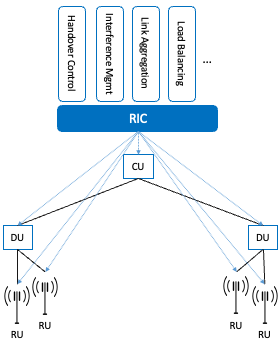
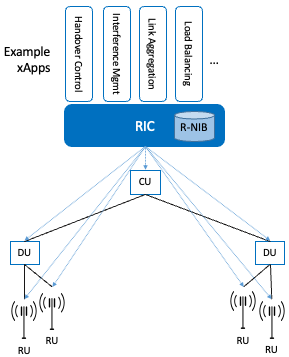
another pass over RAN

Changed region(s): [[0.0, 0.0, 1.0, 1.0], [0.0, 0.1176, 0.1714, 0.2059]]

diff --git a/ran.rst b/ran.rst
@@ -7,23 +7,36 @@ Chapter 4:  Radio Access Network
    extracted from the SDN book).
 
 The high-level description of the RAN in Chapter 2 was mostly silent
-about the RAN’s internal structure. We now focus on those internal
-details, and in doing so, explain how the RAN is being transformed in
-5G. This involves first describing the stages in the packet processing
+about the RAN’s internal structure. We now focus on those details, and
+in doing so, explain how the RAN is being transformed in 5G. This
+involves first describing the stages in the RAN's packet processing
 pipeline, and then showing how these stages are being disaggregated,
 distributed, and implemented.
+
+Note that the deconstruction of the RAN presented in this chapter
+represents a combination of standardized specifications and
+implementation strategies. The former continues to be under the
+purview of the 3GPP, but the latter is primarily influended by a
+second organization: the *Open-RAN Alliance (O-RAN)*. The O-RAN is led
+by network operators (AT&T and China Mobile are the founding members),
+with the goal of catalyzing a software-based implementation of the RAN
+that breaks the vendor lock-in that dominates today’s marketplace.
+Such business forces are certainly a factor in where 5G mobile
+networks are headed, but our goal in this chapter is to identify the
+technical design decisions involved in that evolution.
+
 
 4.1 Packet Processing Pipeline
 ------------------------------
 
 :numref:`Figure %s <fig-pipeline>` shows the packet processing stages
-historically implemented in the base stations, as specified by the
-3GPP standard. Note that the figure depicts the base station as a
-pipeline (running left-to-right for packets sent to the UE) but it is
-equally valid to view it as a protocol stack (as is typically done in
-official 3GPP documents). Also note that (for now) we are agnostic as
-to how these stages are implemented, but since we are ultimately
-heading towards a cloud-based implementation, you can think of each as
+historically bundled in base stations, as specified by the 3GPP
+standard. Note that the figure depicts the base station as a pipeline
+(running left-to-right for packets sent to the UE) but it is equally
+valid to view it as a protocol stack (as is typically done in official
+3GPP documents). Also note that (for now) we are agnostic as to how
+these stages are implemented, but since we are ultimately heading
+towards a cloud-based implementation, you can think of each as
 corresponding to a microservice (if that is helpful).
 
 .. _fig-pipeline:
@@ -87,8 +100,7 @@ historically been "no split," with the entire pipeline shown in
 forward, the 3GPP standard has been extended to allow for multiple
 split-points, with the partition shown in :numref:`Figure %s
 <fig-split-ran>` being actively pursued by the operator-led O-RAN
-(Open RAN) Alliance. It is the split we adopt throughout the rest of
-this book.
+Alliance. It is the split we adopt throughout the rest of this book.
 
 .. _fig-split-ran:
 .. figure:: figures/sdn/Slide2.png 
@@ -102,10 +114,10 @@ This results in a RAN-wide configuration similar to that shown in
 :numref:`Figure %s <fig-ran-hierarchy>`, where a single *Central Unit
 (CU)* running in the cloud serves multiple *Distributed Units (DUs)*,
 each of which in turn serves multiple *Radio Units (RUs)*. Critically,
-the RRC (centralized in the CU) is responsible for only near-real-time
-configuration and control decision making, while the Scheduler that is
-part of the MAC stage is responsible for all real-time scheduling
-decisions.
+the RRC (centralized in the CU) is responsible for making only
+near-real-time configuration and control decisions, while the
+Scheduler that is part of the MAC stage is responsible for all
+real-time scheduling decisions.
 
 .. _fig-ran-hierarchy:
 .. figure:: figures/sdn/Slide3.png 
@@ -125,10 +137,10 @@ geographic area (e.g., a mall, campus, or factory), then a single DU
 would likely service multiple RUs. The use of mmWave in 5G is likely
 to make this later configuration all the more common.
 
-Also note that the split-RAN changes the nature of the Backhaul Network,
-which in 4G connected the base stations (eNBs) back to the Mobile Core.
-With the split-RAN there are multiple connections, which are officially
-labeled as follows.
+Also note that the split-RAN changes the nature of the Backhaul
+Network, which originally connected the base stations back to the
+Mobile Core.  With the split-RAN there are multiple connections, which
+are officially labeled as follows.
 
 -  RU-DU connectivity is called the Fronthaul
 -  DU-CU connectivity is called the Midhaul
@@ -193,19 +205,27 @@ scheduler running in the DU.
     RRC disaggregated into a Mobile Core facing control plane
     component (a proxy) and a Near-Real-Time Controller.
 
-Although not shown in :numref:`Figure %s <fig-rrc-split>`, keep in mind
-(from :numref:`Figure %s <fig-split-ran>`) that all constituent parts of
-the RRC, plus the PDCP, form the CU.
+Although not shown in :numref:`Figure %s <fig-rrc-split>`, keep in
+mind (from :numref:`Figure %s <fig-split-ran>`) that the RRC the PDCP,
+form the CU. Trying to reconcile these two figures is a little bit
+messy, but to a first approximation, the PDCP corresponds to the CU-U
+and RRC-Proxy corresponds to the CU-C, with the RIC "lifted out" and
+responsible for overseeing both.  We postpone a diagram depicting this
+relationship until Section 4.5, where we summarize the end-to-end
+result. For now, the important takeaway is that the SDN-inspired
+refactoring of the RAN is free to both move functionality around and
+introduce new module boundaries, as long as the original 3GPP-defined
+interfaces are preserved.
 
 Completing the picture, :numref:`Figure %s <fig-ran-controller>` shows
 the Near-RT RIC implemented as an SDN Controller hosting a set of SDN
 control apps. The RIC maintains a *RAN Network Information Base
-(R-NIB)*–a common set of information that can be consumed by numerous
+(R-NIB)*—a common set of information that can be consumed by numerous
 control apps. The R-NIB includes time-averaged CQI values and other
 per-session state (e.g., GTP tunnel IDs, QCI values for the type of
 traffic), while the MAC (as part of the DU) maintains the
-instantaneous CQI values required by the real-time
-scheduler. Specifically, the R-NIB includes the following state.
+instantaneous CQI values required by the real-time scheduler.
+Specifically, the R-NIB includes the following state.
 
 * Fixed Nodes (RU/DU/CU Attributes)
 
@@ -245,9 +265,9 @@ scheduler. Specifically, the R-NIB includes the following state.
     :width: 400px
     :align: center
 	    
-    Example set of control applications running on top of
-    Near-Real-Time RAN Controller, controlling a distributed set of
-    Split-RAN elements.
+    Example set of control applications (xApps) running on top of
+    Near-Real-Time RAN Controller (RIC), controlling a distributed set
+    of Split-RAN elements (CU, DU, RU).
 
 The four example Control Apps (xApps) in :numref:`Figure %s
 <fig-ran-controller>` are not intended to be an exhaustive list, but
@@ -258,29 +278,10 @@ Control—are currently implemented by individual base stations with
 only local visibility, but they have global consequences. The SDN
 approach is to collect the available input data centrally, make a
 globally optimal decision, and then push the respective control
-parameters back to the base stations for execution. Realizing this
-value in the RAN is still a work-in-progress, but products that take
-this approach are emerging. Evidence using an analogous approach to
-optimize wide-area networks over many years is compelling.
+parameters back to the base stations for execution. Evidence using an
+analogous approach to optimize wide-area networks over many years (see
+for example B4) is compelling.
 
-Another useful characterization of xApps is based on the current
-practice of controlling the mobile link at two different levels. At a
-fine-grain level, per-node and per-link control is conducted using
-Radio Resource Management (RRM) functions that are distributed across
-the individual base stations.  RRM functions include scheduling,
-handover control, link and carrier aggregation control, bearer
-control, and access control.  At a coarse-grain level, regional mobile
-network optimization and configuration is conducted using
-*Self-Organizing Network (SON)* functions. These functions oversee
-neighbor lists, manage load balancing, optimize coverage and capacity,
-aim for network-wide interference mitigation, centrally configure
-parameters, and so on. As a consequence of these two levels of
-control, it is not uncommon to see reference to *RRM Applications* and
-*SON Applications*, respectively, in O-RAN documents for SD-RAN. (The
-Interference Managment xApp in :numref:`Figure %s
-<fig-ran-controller>` is an example of a SON Application, while the
-other three are RRM Applications.)
-  
 .. _reading_b4:
 .. admonition:: Further Reading
 
@@ -289,6 +290,32 @@ other three are RRM Applications.)
    Globally-Deployed Software Defined WAN
    <https://cseweb.ucsd.edu/~vahdat/papers/b4-sigcomm13.pdf>`__.  ACM
    SIGCOMM, August 2013.
+
+One way to characterize xApps is based on the current practice of
+controlling the mobile link at two different levels. At a fine-grain
+level, per-node and per-link control is conducted using Radio Resource
+Management (RRM) functions that are distributed across the individual
+base stations.  RRM functions include scheduling, handover control,
+link and carrier aggregation control, bearer control, and access
+control.  At a coarse-grain level, regional mobile network
+optimization and configuration is conducted using *Self-Organizing
+Network (SON)* functions. These functions oversee neighbor lists,
+manage load balancing, optimize coverage and capacity, aim for
+network-wide interference mitigation, centrally configure parameters,
+and so on. As a consequence of these two levels of control, it is not
+uncommon to see reference to *RRM Applications* and *SON
+Applications*, respectively, in O-RAN documents for SD-RAN. For
+example, the Interference Managment xApp in :numref:`Figure %s
+<fig-ran-controller>` is a SON Application, while the other three
+xApps are RRM Applications.
+
+Note that this characterization of xApps based on past (pre-SDN)
+implementations of the RAN is helpful as the industry transitions to
+SD-RAN, one could argue that is it will not be particularly useful in
+the long-term. SDN brings a transfomative change to the RAN, and we
+can expect new ways of controlling the RAN that do fit neatly into the
+RRC or SON buckets to emerge over time.
+
 
 4.4 Near Real-Time RIC
 ----------------------
@@ -315,65 +342,40 @@ in the wireline case.
     O-RAN compliant RAN Intelligent Controller (RIC) built by adapting
     and extending ONOS.
 
-.. sidebar:: O-RAN Alliance
-
-   3GPP (3rd Generation Partnership Project) has been responsible for
-   standardizing the mobile cellular network ever since 3G, and
-   O-RAN (Open-RAN Alliance) is a consortium of mobile network
-   operators defining an SDN-based implementation strategy for 5G.
-
-   If you are wondering why there is an O-RAN Alliance in the first
-   place, given that 3GPP is already the standardization body
-   responsible for interoperability across the global cellular
-   network, the answer is that over time 3GPP has become a
-   vendor-dominated organization. O-RAN was created more recently by
-   network operators (AT&T and China Mobile were the founding
-   members), with the goal of catalyzing a software-based
-   implementation that breaks the vendor lock-in dominating today’s
-   marketplace.
-
-   To be more specific, 3GPP defined the possible RAN split points,
-   and O-RAN is specifying (and codifying) the corresponding
-   interfaces.  The E2 interface in particular, which is architected
-   around the idea of supporting different Service Models, is central
-   to this strategy.  Whether the operators will be successful in
-   their ultimate goal is yet to be seen.
-
-
 Specifically, the ONOS-based RIC includes a Topology Service to keep
-track of the fixed RAN infrastructure, a Control Service to track and
+track of the fixed RAN infrastructure, a Device Service to track and
 control the mobile devices, and a Configuration Service to manage
-RAN-wide configuration state. All three of these services take
-advantage of a scalable Key/Value Store.
+RAN-wide configuration state. All three of these services are
+implemented as Kubernetes-based microservices, and take advantage of a
+scalable Key/Value Store.
 
 Returning to the three interfaces called out in :numref:`Figure %s
-<fig-ric>`, each serves a purpose similar to the interfaces described
-in earlier chapters. The first two, **A1** and **E2**, are well on
-their way to being standardized by O-RAN. The third, denoted **xApp
-SDK** in :numref:`Figure %s <fig-ric>`, is specific to the ONOS-based
-implementation (and similar in spirit to Flow Objectives), although
-the O-RAN has a long-term goal of converging on a unified API (and
-corresponding SDK).
+<fig-ric>`, the first two (**A1** and **E2**) are based on
+pre-existing 3GPP standards, with the O-RAN well on its way to
+defining standardized extensions. The third, denoted **xApp SDK** in
+:numref:`Figure %s <fig-ric>`, is specific to the ONOS-based
+implementation. The O-RAN is using it to inform a convergence on a
+unified API (and corresponding SDK) for building RIC-agnostic xApps.
 
-The A1 interface provides a means for the mobile operator's
-management plane—typically called the *OSS/BSS (Operations Support
-System / Business Support System)* in the Telco world—to configure the
-RAN.  We have not discussed the Telco OSS/BSS up to this point, but it is
-safe to assume such a component sits at the top of any Telco software
+The A1 interface provides a means for the mobile operator's management
+plane—typically called the *OSS/BSS (Operations Support System /
+Business Support System)* in the Telco world—to configure the RAN.  We
+have not discussed the Telco OSS/BSS up to this point, but it is safe
+to assume such a component sits at the top of any Telco software
 stack. It is the source of all configuration settings and business
 logic needed to operate a network. You can think of it as the RAN
-counterpart to gNMI/gNOI.
+counterpart to gNMI/gNOI, a pair of configuration APIs commonly used
+to configure cloud devices.
 
 The Near-RT RIC uses the E2 interface to control the underlying RAN
-elements, including the CU, DUs, and RUs. You can think of it as the
-RAN counterpart to OpenFlow. A requirement of the E2 interface is that
-it be able to connect the Near-RT RIC to different types of RAN
-elements from different vendors. This range is reflected in the API,
-which revolves around a *Service Model* abstraction. The idea is that
-each RAN element advertises a Service Model, which effectively defines
-the set of RAN Functions the element is able to support. The RIC then
-issues a combination of the following four operations against this
-Service Model.
+elements, including the CU, DUs, and RUs. A requirement of the E2
+interface is that it be able to connect the Near-RT RIC to different
+types of RAN elements from different vendors. This range is reflected
+in the API, which revolves around a *Service Model* abstraction. The
+idea is that each RAN element advertises a Service Model, which
+effectively defines the set of RAN Functions the element is able to
+support. The RIC then issues a combination of the following four
+operations against this Service Model.
 
 * **Report:** RIC asks the element to report a function-specific value setting.
 * **Insert:** RIC instructs the element to activate a user plane function.
@@ -384,13 +386,12 @@ Of course, it is the RAN element, through its published Service Model,
 that defines the relevant set of functions that can be activated, the
 variables that can be reported, and policies that can be set.
 
-Finally, the xApp SDK, which in principle is the RAN counterpart of
-Flow Objectives, is specific to the ONOS-based implementation. It is
-currently little more than a "pass through" of the E2 interface, which
-implies the xApps must be aware of the available Service Models. This
-is problematic in that it implicitly couples applications with
-devices, but defining a device-agnostic version is still a
-work-in-progress.   
+Finally, the xApp SDK, which is specific to the ONOS-based
+implementation, is currently little more than a "pass through" of the
+E2 interface, which implies the xApps must be aware of the available
+Service Models. This is problematic in that it implicitly couples
+applications with devices, but defining a device-agnostic version is
+still a work-in-progress.
 
 4.5 Control Loops
 -----------------
@@ -414,8 +415,7 @@ components shown in :numref:`Figure %s <fig-disagg1>` illustrates
 horizontal disaggregation of the RAN from a single base station into
 three distinct components: CU, DU and RU. The O-RAN Alliance has
 selected specific disaggregation options from 3GPP and is developing
-open interfaces between these components.  3GPP defines the **N2** and
-**N3** interfaces between the RAN and the Mobile Core.
+open interfaces between these components.
 
 .. _fig-disagg1:
 .. figure:: figures/sdn/Slide7.png 
@@ -430,9 +430,7 @@ and CU-C shown in :numref:`Figure %s <fig-disagg2>`. The control
 plane in question is the 3GPP control plane, where the CU-U realizes a
 pipeline for user traffic and the CU-C focuses on control message
 signaling between Mobile Core and the disaggregated RAN components (as
-well as to the UE). The O-RAN specified interfaces between these
-disaggregated components are also shown in :numref:`Figure %s
-<fig-disagg2>`.
+well as to the UE).
 
 .. _fig-disagg2:
 .. figure:: figures/sdn/Slide8.png 
@@ -489,14 +487,4 @@ elsewhere. The Non-RT RIC would then interact with the Near-RT RIC to
 deliver relevant operator policies from the Management Plane to the
 Near RT-RIC over the A1 interface.
 
-Finally, you may be wondering why there is an O-RAN Alliance in the
-first place, given that 3GPP is already the standardization body
-responsible for interoperability across the global cellular network.
-The answer is that over time 3GPP has become a vendor-dominated
-organization, whereas O-RAN was created more recently by network
-operators. (AT&T and China Mobile were the founding members.) O-RAN’s
-goal is to catalyze a software-based implementation that breaks the
-vendor lock-in that dominates today’s marketplace. The E2 interface
-in particular, which is architected around the idea of supporting
-different Service Models, is central to this strategy. Whether the
-operators will be successful in their ultimate goal is yet to be seen.
+
